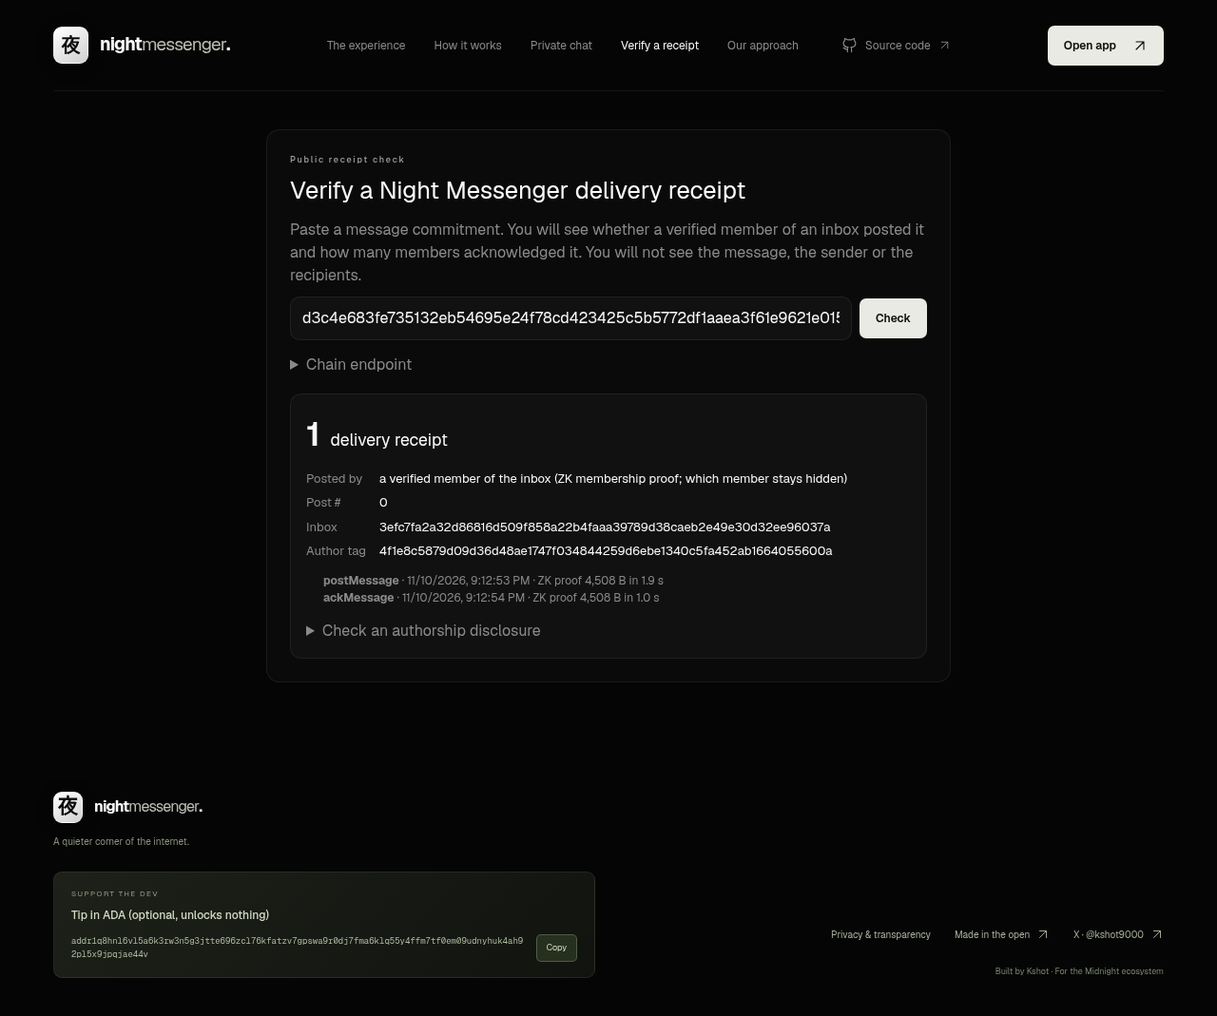
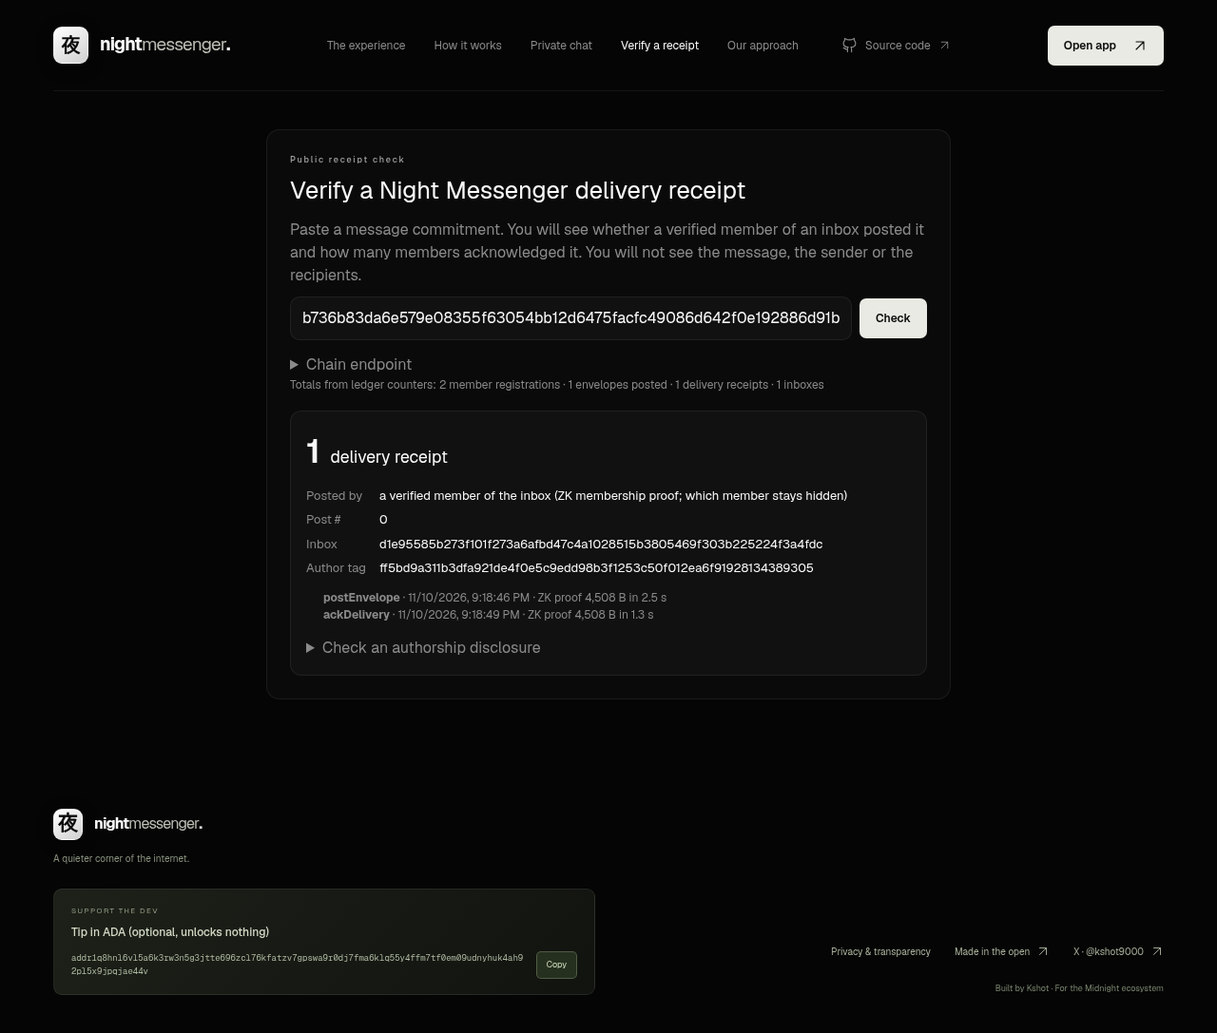
docs: README for the Wave 3 build (merged from the marketing draft, kept to what ships), contract README, fresh screenshots

diff --git a/README.md b/README.md
@@ -1,95 +1,235 @@
 # Night Messenger
 
-**Your words. Not the world’s.** A calm, open-source messaging preview for the Midnight ecosystem.
+**Verified, but anonymous. Private messages with delivery receipts anyone can check.**
 
-Monochrome ninja UI (black / white / soft gray) with 夜 seal mark and subtle white sakura petals — free forever.
+Night Messenger is an open-source messenger for the [Midnight](https://midnight.network) blockchain, built by **Kshot Applications**.
 
-[Open the website](https://kshot3000.github.io/Night-Messenger-/) · [Privacy model](packages/shared/PRIVACY.md)
+- **Verified but anonymous senders.** A sender proves in zero knowledge that they are a registered member of a conversation (for example, verified staff writing to a tip line) without revealing which member.
+- **Delivery receipts anyone can check.** The recipient posts an anonymous delivery receipt (`ackDelivery`) against the message's on-chain commitment. Anyone can look a commitment up at `/verify` and see that a member posted it and how many members acknowledged it, without seeing the message, the sender or the recipient.
+- **Real end-to-end encryption in the browser.** Keys are made on your device; the relay only ever stores ciphertext.
 
-![Night Messenger landing page](docs/screenshots/landing.png)
+> ⚠ **Testnet only. Not audited.** The contract and encryption code have not had a security review. Use test identities and sample content only.
+>
+> **Status (Nov 2026, Wave 3 build):** encryption, relay delivery, the Compact contract and its ZK proofs all work locally. The web demo's "chain" is a **local chain simulator** that runs the real compiled contract (and, with a proof server, real proofs). **The contract is not yet deployed to Midnight Preprod**; see [Preprod status](#preprod-status).
 
-## What works
+[Live site (static pages)](https://kshot3000.github.io/Night-Messenger-/) · [X: @kshot9000](https://x.com/kshot9000) · [Privacy model](#privacy-model) · [What changed this Wave](#what-changed-this-wave)
 
-- Responsive landing page with an interactive messenger preview, product tour, and FAQ.
-- Full desktop messenger and mobile inbox-to-conversation navigation.
-- Local conversations and message history, per-chat drafts, emoji, and reactions.
-- Search across conversations or within a thread; unread filtering, pinning, and archiving.
-- Edit/delete your own messages, delete a conversation with confirmation, or export it to JSON.
-- Full workspace backup/restore with file validation and replacement confirmation.
-- Profile onboarding, optional wallet selection, compact view, and sample-data reset.
-- Accessible dialogs, visible keyboard focus, reduced motion, and Ctrl/Cmd+K search.
-- Midnight DApp Connector v4 discovery and optional preprod connection, with rejection/timeout handling.
+![Private chat: a sealed message with its on-chain commitment and one delivery receipt](docs/screenshots/private-chat.png)
 
-**This is a local product preview.** Messages are readable browser data, not encrypted or delivered to anyone. A connected wallet does not enable live chat. End-to-end encryption, a relay, device synchronization, and Midnight proofs are future work. Please use sample content only. There are no fake delivery receipts or generated replies.
+The product name lives in one constant, `PRODUCT.name` in `packages/shared/src/product.ts`; the UI reads it from there.
 
-## Run the website
+---
 
-Use **Node.js 24 LTS** (minimum 22.18) and **pnpm 11.25.0**.
+## Why it matters
+
+**Delivery you don't have to take on trust.** In most apps, "delivered" is whatever the server says. Here each message leaves a 32-byte fingerprint (a SHA-256 commitment of its ciphertext) on-chain, and the recipient posts a receipt against it. Anyone can recompute the fingerprint from the ciphertext the relay handed over, so the relay cannot swap or edit a message without it showing, and a missing receipt is visible.
+
+**Proof you belong, without giving up who you are.** A whistleblower who really works at the company, a verified customer, a staff member on a tip line: each can prove "I'm one of the members" without "I'm Alice". The recipient, after decrypting, can still confirm which member wrote it, and either side can later hand a third party a proof of authorship for **one** message without opening any other.
+
+## How it works
+
+1. **Make keys.** Your browser generates an X25519 key pair and a separate 32-byte Midnight member secret. You share an invite code (public keys only) with your contact.
+2. **Write.** Your browser seals the message for the recipient. Only the 32-byte commitment of the ciphertext goes on-chain, via `postEnvelope`, with a ZK proof that you hold a member leaf of the conversation's inbox. The proof does not say which leaf.
+3. **Deliver.** A small relay stores the sealed envelope in the recipient's mailbox. It can't read it and can't see who sent it.
+4. **Confirm.** The recipient decrypts, checks the sender's key against the invite, checks the on-chain author tag, and posts `ackDelivery`: an anonymous one-per-member receipt. Anyone can count receipts at `/verify`.
+
+```mermaid
+sequenceDiagram
+    participant S as Sender (browser)
+    participant R as Relay (ciphertext only)
+    participant C as night_messenger contract
+    participant V as Recipient (browser)
+    participant P as Anyone
+
+    S-->>V: invite codes swapped (public keys only)
+    S->>C: createInbox + addMember x2 (first message only; only salted leaves public)
+    Note over S: seal: X25519 + HKDF + AES-256-GCM
+    S->>R: sealed envelope (sender key encrypted inside)
+    S->>C: postEnvelope(inbox, commitment) + ZK proof "a member of this inbox"<br/>stores hiding author tag
+    R->>V: sealed envelope
+    Note over V: open, check sender key = invite,<br/>recompute commitment + author tag = ledger
+    V->>C: ackDelivery(commitment) + ZK proof, one-time nullifier
+    P->>C: /verify: posted? how many receipts?
+```
+
+## What works today
+
+| Area | Status |
+| --- | --- |
+| E2EE in the browser (`/private`) | ✅ X25519 + HKDF-SHA-256 + AES-256-GCM via the browser's built-in **WebCrypto** (no third-party crypto library), Noise-X-style sealed envelopes |
+| Keys at rest | ✅ sealed with a non-extractable AES-GCM device key kept in IndexedDB; passphrase backup/restore (PBKDF2-SHA-256, 600k iterations) |
+| Delivery between two browsers | ✅ tiny zero-dependency Node relay (`apps/relay`) |
+| Compact contract | ✅ `contracts/src/night_messenger.compact`, compactc **0.31.1**, 7 circuits |
+| ZK proofs | ✅ every circuit proves against proof server 8.1.0 (`docs/local-proofs.json`; 4,508-byte proofs, `postEnvelope` ≈ 2–5 s) |
+| Anonymous sender, recipient verification, per-message authorship disclosure | ✅ |
+| Public receipt check (`/verify`) | ✅ against the local chain simulator |
+| Usage counts (registrations, envelopes, receipts) | ✅ ledger counters, shown on `/verify` and via `pnpm stats` |
+| Midnight Preprod deployment | ❌ not yet: needs a funded Preprod wallet ([below](#preprod-status)) |
+| Lace wallet signing from the browser | ❌ next phase (wallet detection exists) |
+| First message free via DUST sponsorship | ❌ stretch goal, not started |
+
+The older sample messenger at `/app` (search, pins, reactions, backup) is still a **local, unencrypted preview** with demo data and is labelled as such.
+
+## Quick start (local demo, two browsers)
+
+Requires Node.js 24 LTS (minimum 22.18) and pnpm 11.25.0. The web demo, relay and tests need **no Docker and no wallet**. The Compact compiler is only needed to rebuild the contract; a proof server is optional (it turns simulated calls into real ZK proofs).
 
 ```bash
+git clone https://github.com/Kshot3000/Night-Messenger-.git
+cd Night-Messenger-
 npm install -g pnpm@11.25.0
 pnpm install --frozen-lockfile
-pnpm dev
+
+# 1. Compile the contract (Compact toolchain, compiler 0.31.1)
+#    curl --proto '=https' --tlsv1.2 -LsSf https://github.com/midnightntwrk/compact/releases/latest/download/compact-installer.sh | sh
+#    compact update 0.31.1
+pnpm compile:contracts            # full build with proving keys (~25 s)
+
+# 2. Optional: a local proof server for real ZK proofs (Docker)
+docker run -p 6300:6300 midnightntwrk/proof-server:8.1.0
+
+# 3. In three terminals:
+pnpm relay                                              # ciphertext relay on :8787
+NM_PROOF_SERVER=http://localhost:6300 pnpm chain-sim     # contract simulator on :8788 (omit the env var for no proofs)
+pnpm dev                                                # web app on :3000
 ```
 
-Open `http://localhost:3000`. Fonts are bundled locally; builds do not fetch Google Fonts.
+Open `http://localhost:3000/private/` in two browser profiles (or one normal and one private window). Create keys in each, copy each invite into the other, and send a message. Within a few seconds the sender sees `on-chain #n · 1 receipt`; click it to open the public `/verify` view.
 
-| Route | Experience |
-| --- | --- |
-| `/` | Landing page and interactive preview |
-| `/onboarding/` | Display name, optional wallet, preview explanation |
-| `/app/` | Working local messenger |
-| `/security/` | Current capabilities, data handling, and privacy roadmap |
+Terminal-only version of the same flow (E2EE → relay → contract → receipt → disclosure):
 
 ```bash
-pnpm test           # State, backup validation, and wallet regression tests
-pnpm typecheck      # Web and shared packages
-pnpm lint           # Web source
-pnpm build:web      # Static export for a root-domain host
-pnpm build:pages    # Static export with /Night-Messenger- base path
+pnpm demo:e2e
 ```
 
-The export is written to `apps/web/out/`. Serve it over HTTP, not by opening HTML files directly. To preview a root-domain build: `python -m http.server 3000 --directory apps/web/out`.
-
-## GitHub Pages
-
-The current website publishes from the **gh-pages branch, root folder**. The `Web checks` GitHub Actions workflow (`.github/workflows/web-checks.yml`) validates every main-branch push and pull request: it installs with the frozen lockfile, then runs `pnpm test`, `pnpm typecheck`, `pnpm lint`, and `pnpm build:web` (Node 24, pnpm 11.25.0). Before publishing, the same checks must also pass locally. To publish after the checks pass:
+### Checks
 
 ```bash
-bash scripts/deploy-gh-pages.sh
+pnpm test             # E2EE, relay, private-chat state, and existing web tests (no compiler needed)
+pnpm test:contracts   # compiles with --skip-zk, then simulator tests for every circuit + chain simulator
+pnpm typecheck        # web and shared packages
+pnpm lint             # web source
+pnpm build:web        # static export
+pnpm --filter @midnight-messenger/contracts prove:local   # real proofs; needs step 1 + 2
+pnpm --filter @midnight-messenger/contracts stats -- --sim http://localhost:8788
 ```
 
-This builds the Pages export and adds a normal commit to `gh-pages`; it does not force-push or replace branch history. Git write access is required. `NEXT_PUBLIC_SITE_URL` can override the canonical URL; change `repoBase` in `apps/web/next.config.ts` if moving to a differently named repository.
+The `Web checks` GitHub Actions workflow (`.github/workflows/web-checks.yml`) runs `pnpm test`, `pnpm typecheck`, `pnpm lint` and `pnpm build:web` on every main-branch push and pull request. Contract tests need the Compact compiler and are run locally.
 
-## Local data and backups
+Relay and chain URLs default to `http://localhost:8787` and `http://localhost:8788`; change them under **Relay & chain** in the app, or at build time with `NEXT_PUBLIC_NM_RELAY_URL` / `NEXT_PUBLIC_NM_CHAIN_URL`. Remote endpoints must be `https://`.
 
-The web app stores its workspace under `night_messenger_workspace_v1`, plus display-name and compact-view preferences. Data stays in the current browser profile and origin. Storage failures are shown in the UI; unreadable saved data is preserved until you explicitly restore a backup or reset the demo. Backups and single-conversation exports contain readable content.
+## Architecture
 
-- **Settings → Back up chats:** export all conversations, drafts, reactions, and archive/pin state.
-- **Settings → Restore backup:** validate a workspace backup, then confirm replacement.
-- **Conversation details → Export:** export one conversation; this is not a workspace restore file.
-- **Settings → Reset demo:** replace conversations with the samples. Profile/preferences remain.
-- Clear the site's browser data to remove everything. Delete downloaded backups separately.
+| Part | Folder | What it does | License |
+| --- | --- | --- | --- |
+| Web app | `apps/web` | Next.js 15 / React 19. `/private` (E2EE chat), `/verify` (public receipts), plus the older `/app` sample preview | MIT; new private-chat files Apache-2.0 (SPDX headers) |
+| Encryption | `packages/shared/src/e2ee.ts` | Identities, invites, seal/open, author tags, backups. WebCrypto only | Apache-2.0 |
+| Relay | `apps/relay` | Zero-dependency mailbox server for sealed envelopes | Apache-2.0 |
+| Contract | `contracts/src/night_messenger.compact` | Inboxes, member tree, `postEnvelope`, `ackDelivery`, `revealAuthor`, counters | Apache-2.0 (`contracts/LICENSE`) |
+| Chain simulator | `contracts/sim` | Runs the compiled contract over HTTP for the demo; optional real proofs | Apache-2.0 |
+| Preprod drill | `contracts/preprod` | Deploy + post + ack script (not run yet) | Apache-2.0 |
+| Mobile starter | `apps/mobile` | Earlier Expo starter, not part of this release. The web app will later be wrapped with Capacitor | MIT |
 
-Multiple open tabs do not synchronize edits; use one tab per browser profile to avoid overwriting another tab's changes. A refresh opens the first pinned/recent conversation. A wallet session is in memory and is not persisted.
+**Stack:** Compact compiler 0.31.1 · `@midnight-ntwrk/compact-runtime` 0.16.0 · midnight-js 4.1.1 (proof provider) · proof server 8.1.0 · Next.js 15 · React 19 · TypeScript · Node 24.
 
-## Repository layout
+## Contract functions
 
-| Folder | Purpose |
-| --- | --- |
-| `apps/web` | Next.js 15 / React 19 website and local messenger |
-| `apps/mobile` | Original Expo / React Native Android starter (separate, not redesigned here) |
-| `packages/shared` | Domain types, wallet helper, API stubs, privacy documentation |
-| `contracts` | Unimplemented Compact interfaces; no deployed contracts |
-| `scripts` | Portable Pages build and history-preserving deployment |
+| Circuit | Who calls it | Public on the ledger | Stays private |
+| --- | --- | --- | --- |
+| `createInbox(inboxId)` | inbox owner (first sender of a DM) | inbox id, owner commitment | owner secret |
+| `addMember(inboxId, member)` | owner | a salted leaf `H(inbox, member)`; member count | the member commitment itself (circuit argument, never disclosed) |
+| `removeMember` / `closeInbox` | owner | slot emptied, root history reset / inbox closed | same |
+| `postEnvelope(inboxId, commitment)` | any member | commitment, inbox id, Merkle root, hiding author tag, sequence number | which member, the member secret, the blind, the message |
+| `ackDelivery(commitment)` | any member of the post's inbox | commitment, one-time nullifier `H(commitment, sk)`, receipt count | which member, their secret |
+| `revealAuthor(commitment)` | the author, opt-in | the author's member commitment for that one message | everything else |
 
-The mobile starter keeps React 18. A pnpm package extension isolates Next.js's React 19 types to avoid monorepo type conflicts. Run the Android starter with `pnpm dev:mobile`; mobile native builds are outside this web release's verification.
+Usage counters on the ledger: `inboxCount`, `membersAdded` (registrations), `postCount` (envelopes posted), `deliveryCount` (receipts). They are aggregate totals only.
 
-## Next milestones
+## Privacy model
 
-1. Authenticated identity and device/session key management.
-2. Reviewed end-to-end encryption and encrypted message transport.
-3. Reliable delivery, multi-device sync, abuse prevention, and recovery.
-4. Implemented/audited Midnight contracts and selective-disclosure proofs.
+| Data | Where it lives | Who can see it |
+| --- | --- | --- |
+| Message text | Sender's and recipient's browsers (sealed at rest) | Sender and recipient |
+| Sealed envelope | Relay, up to 7 days (`NM_RELAY_TTL_HOURS`) | Anyone holding it sees ciphertext only; the sender's key is encrypted inside |
+| Commitment (SHA-256 of the envelope) | On-chain | Everyone; reveals nothing about content |
+| Membership proof | On-chain | Everyone can verify "a member of inbox X posted this", not which member |
+| Member leaves | On-chain | Everyone sees salted hashes; not reversible to members |
+| Author tag | On-chain | Hiding; only someone given `(member, blind)` can check it |
+| Delivery receipt nullifier | On-chain | Everyone; unlinkable to a member without their secret |
+| Public encryption key, member commitment | Invite code you choose to share | Your contacts (not on-chain) |
+| Secret keys | Your browser only | Only you |
 
-Built by [Kshot3000](https://github.com/Kshot3000) for the Midnight ecosystem. MIT license.
+**Does `postEnvelope` or `ackDelivery` reveal the recipient on-chain?** No. Neither circuit takes or discloses the recipient's key, mailbox or member commitment. `postEnvelope` discloses the inbox id (for a DM, a hash of both member commitments, so it links messages of the same conversation but names nobody), and `ackDelivery` discloses only the commitment and a one-time nullifier. Caveat: in a two-person DM the anonymity set is two, so "a member other than the sender acknowledged" effectively means "the other party", pseudonymously.
+
+**Known limits:**
+
+- **Metadata at the relay.** The relay sees the recipient's mailbox id (a hash of their public key), envelope sizes, timing and IP addresses. Use Tor or a VPN if that matters. It keeps no request log.
+- **Chain simulator trust.** The local simulator, like Midnight's proof server, receives your private circuit inputs to run the circuit, so it must run on your own machine (it binds to 127.0.0.1). On Preprod those inputs go only to your local proof server.
+- **Small sets.** With few members, "one of the members" hides little. Receipts are capped at one per member, but a sender can also acknowledge their own message.
+- **No forward secrecy** if a recipient's long-term key leaks later; single device, manual backup; no audit.
+- **Invite exchange** is manual (copy/paste); verify invites out of band.
+
+## Preprod status
+
+Not deployed yet. **Contract address: none.** The deploy-and-drill script (`contracts/preprod/night-messenger-preprod.mjs`, same pattern as our earlier ShieldPass Preprod deploy) needs:
+
+1. A Preprod wallet seed or mnemonic in `MIDNIGHT_WALLET_SEED` / `MIDNIGHT_WALLET_MNEMONIC`, funded with tNIGHT from the Midnight Preprod faucet, with tDUST registered.
+2. A Blockfrost Midnight Preprod project id (`BLOCKFROST_MIDNIGHT_PREPROD_ID`) or another indexer URL.
+3. A running proof server 8.1.0 and the full ZK build (`pnpm compile:contracts`).
+
+When it runs, `deployments/preprod.json` records the address and `https://preprod.midnightexplorer.com/contracts/0x…` links.
+
+## Testnet and audit status
+
+- Local demo and (soon) Midnight Preprod only. No mainnet deployment.
+- **Not audited.** Treat every privacy property here as a design goal under test.
+- Report security issues privately through GitHub Security Advisories on this repo, not in public issues.
+
+## Licensing
+
+- New Midnight code (the Compact contract, simulator, Preprod scripts, relay, `packages/shared/src/e2ee.ts`, and the private-chat web files marked `SPDX-License-Identifier: Apache-2.0`) is **Apache-2.0** (see `contracts/LICENSE`).
+- Everything else stays **MIT** (see `LICENSE`).
+
+## Related work
+
+Several teams are building private messaging on Midnight, which is good for everyone. Summaries below come from each project's public posts (Nov 2026) and are not claims about what they can or can't do; open an issue if we got something wrong.
+
+| Project | Public description | Where Night Messenger differs |
+| --- | --- | --- |
+| **Midnight Messenger** ([@EnigmA_SPO](https://x.com/EnigmA_SPO)) | Preprod beta; MLS end-to-end encryption, sponsor-paid signup, username plus 6-digit code over a hashed directory, ciphertext-only relay | Recipient-posted delivery receipts anyone can check on-chain, and per-message authorship disclosure |
+| **Vale** | Wallet-based identity and private discovery; chat off-chain | On-chain checkable receipts |
+| **ZK-Chat** | Encrypted chat with ZK proofs of sender authenticity | Recipient-posted receipts |
+| **ZKMail** | Developer framework for confidential, ZK-verified messaging | End-user app built around checkable receipts |
+
+## Roadmap
+
+**Wave 3 (target Nov 25, 2026):** deploy to Preprod, switch `/verify` and `/private` from the simulator to Lace + proof server + indexer, demo video. Stretch: first message free via DUST sponsorship.
+
+**Next:** tester round, security review, multi-device keys and recovery, group inboxes in the UI (the contract already supports them), Android app via Capacitor, mainnet only after an audit.
+
+**Product idea (not built, nothing for sale):** a verified tip line / Teams edition for organisations.
+
+## What changed this Wave
+
+**Before:** a local UI preview. No encryption, no delivery, `contracts/` was an unimplemented stub.
+
+**Now:**
+
+- Compact contract with anonymous membership posting, author tags, anonymous one-per-member delivery receipts, opt-in author reveal, member removal and usage counters; simulator tests for every circuit.
+- Real ZK proofs for every circuit against proof server 8.1.0.
+- In-browser E2EE with keys sealed at rest (folding in the useful parts of the earlier [Nocturne](https://github.com/Kshot3000/nocturne) preview: device-key sealing and passphrase wrapping).
+- Ciphertext-only relay, local chain simulator, `/private` and `/verify` pages, terminal demo.
+- Apache-2.0 for the new Midnight code.
+- Not yet: Preprod deployment, Lace signing, DUST sponsorship, tester round.
+
+---
+
+Built by **Kshot Applications** · [kshot.tech](https://kshot.tech) · [@kshot9000](https://x.com/kshot9000) · Topic: `midnightntwrk`
+
+## Support the dev
+
+Our apps are free and open source. If this one helps you, you can tip in ADA:
+
[1 lines of base64/hex data omitted]
+
+Tips are optional and unlock nothing: no support, features or return. Always check the address before you send.

diff --git a/contracts/README.md b/contracts/README.md
@@ -1,43 +1,21 @@
-# Night Messenger — Contracts
+# Night Messenger — Compact contract
 
-Selective 1:1 DM contracts for [Midnight](https://midnight.network).
+`src/night_messenger.compact` (compactc **0.31.1**, `pragma language_version >= 0.23`). Apache-2.0.
 
-**Status:** stubs only. No Compact compile, no proof server, no deployed addresses.
-Interfaces below describe the intended surface so Compact engineers can implement without inventing APIs in the app layer.
+Private group inboxes on Midnight: salted member leaves in a `HistoricMerkleTree<16>`, anonymous `postEnvelope` with a hiding author tag, anonymous one-per-member `ackDelivery` receipts, opt-in `revealAuthor`, `removeMember` with root-history reset, `closeInbox`, and aggregate usage counters. Message bodies, keys and identities never touch the ledger. See the root README for the full table of what is public.
 
-## Goals
+```bash
+pnpm compile         # full build with proving keys -> src/managed/night_messenger (git-ignored)
+pnpm compile:fast    # --skip-zk, for tests
+pnpm test            # simulator tests for every circuit + the chain simulator
+pnpm prove:local     # real proofs against proof server 8.1.0 on :6300 (docs/local-proofs.json)
+pnpm demo            # terminal end-to-end demo (E2EE -> relay -> contract -> receipt)
+pnpm sim             # HTTP chain simulator for the web demo (NM_PROOF_SERVER for real proofs)
+pnpm stats -- --sim http://localhost:8788      # usage counters (or --contract <addr> on Preprod)
+```
 
-1. **Commit** that a sealed message exists (binding commitment), without putting plaintext on-chain.
-2. **Prove delivery** — recipient can produce a proof that they acknowledged commitment `C`.
-3. **Selective disclosure** — prove membership or attributes (e.g. time bucket) without opening content.
+The pure helpers (`memberCommitment`, `memberLeaf`, `authorTag`, `ackNullifier`) are SHA-256 over the concatenated 32-byte fields, which is exactly what `persistentHash<Vector<n, Bytes<32>>>` computes; `packages/shared/src/e2ee.ts` mirrors them and a test checks they match.
 
-## Intended circuit surface (TODO)
+Preprod: `preprod/night-messenger-preprod.mjs` deploys and runs a drill. Not run yet: it needs a funded Preprod wallet (tNIGHT + tDUST) and a Blockfrost Midnight Preprod project id.
 
-| Entry | Purpose | Public outputs (sketch) | Private witnesses (sketch) |
-| --- | --- | --- | --- |
-| `sendMessage` / `commitMessage` | Bind ciphertext commitment to thread + parties | `commitment`, `threadId` (or hash), epoch | ciphertext hash, salt, sender sk, recipient pk |
-| `proveDelivery` | Attest receipt of `commitment` | `commitment`, `delivered=true` | recipient sk, ack nonce |
-| `proveMembership` | Prove caller is party to thread | `threadId`, `isMember=true` | membership witness |
-| `proveAttribute` | Disclose one allowed attribute | `attrKey`, `attrValue` / range | full attribute set, salt |
-
-Exact Compact types, ledger schema, and nullifier rules are **TBD** — align with current Midnight Compact + ledger docs before implementing.
-
-## TypeScript stub
-
-See [`src/selective-dm.ts`](./src/selective-dm.ts) — clearly marked `TODO` / `unimplemented`.
-
-## What must never go on-chain
-
-- Message plaintext
-- Session keys / Noise secrets
-- Full participant lists beyond what a circuit explicitly discloses
-
-## Implementation notes for engineers
-
-- Prefer incremental circuits: commit first, then delivery, then attributes.
-- App layer should call these only through a typed client; do not fake proof bytes in production paths.
-- Wallet: dapps must enumerate `window.midnight` via `Object.values` / `Object.keys` (UUID injection keys) — never hardcode `mnLace`.
-
-## License
-
-Same as repo root (see root README).
+Not audited. Testnet only.
